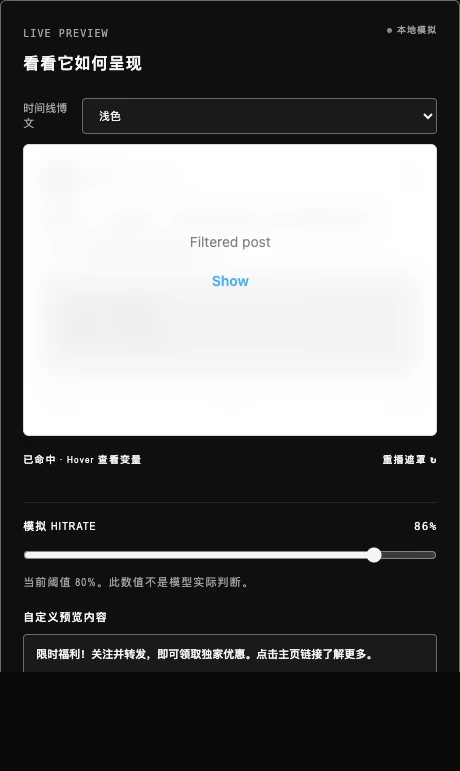
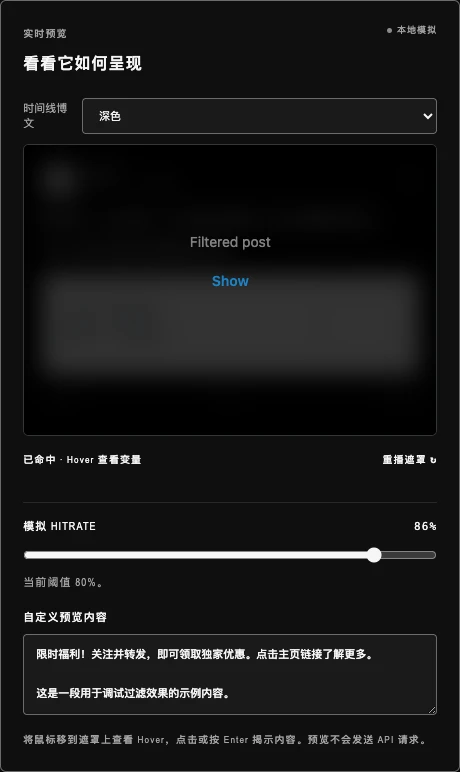
docs: refresh README preview screenshots

diff --git a/README.en.md b/README.en.md
@@ -35,7 +35,7 @@
 
 <table>
   <tr>
-    <td width="72%"><img src="docs/assets/dashboard-activity.webp" alt="Activity heatmap, trend, and weekly review in the light theme" /></td>
+    <td width="72%"><img src="docs/assets/dashboard-activity.webp" alt="XFlow Activity heatmap, weekly review, and filtering controls in the dark theme" /></td>
     <td width="28%"><img src="docs/assets/veil-preview.webp" alt="Local Blur Veil preview with hit-rate and threshold controls in the dark theme" /></td>
   </tr>
   <tr>

diff --git a/README.md b/README.md
@@ -34,7 +34,7 @@
 
 <table>
   <tr>
-    <td width="72%"><img src="docs/assets/dashboard-activity.webp" alt="浅色主题下的 Activity Heatmap、趋势和每周回顾" /></td>
+    <td width="72%"><img src="docs/assets/dashboard-activity.webp" alt="深色主题下的 Activity 热力图、每周回顾和过滤范围" /></td>
     <td width="28%"><img src="docs/assets/veil-preview.webp" alt="深色主题下的 Blur Veil 本地预览、命中率与阈值控制" /></td>
   </tr>
   <tr>
